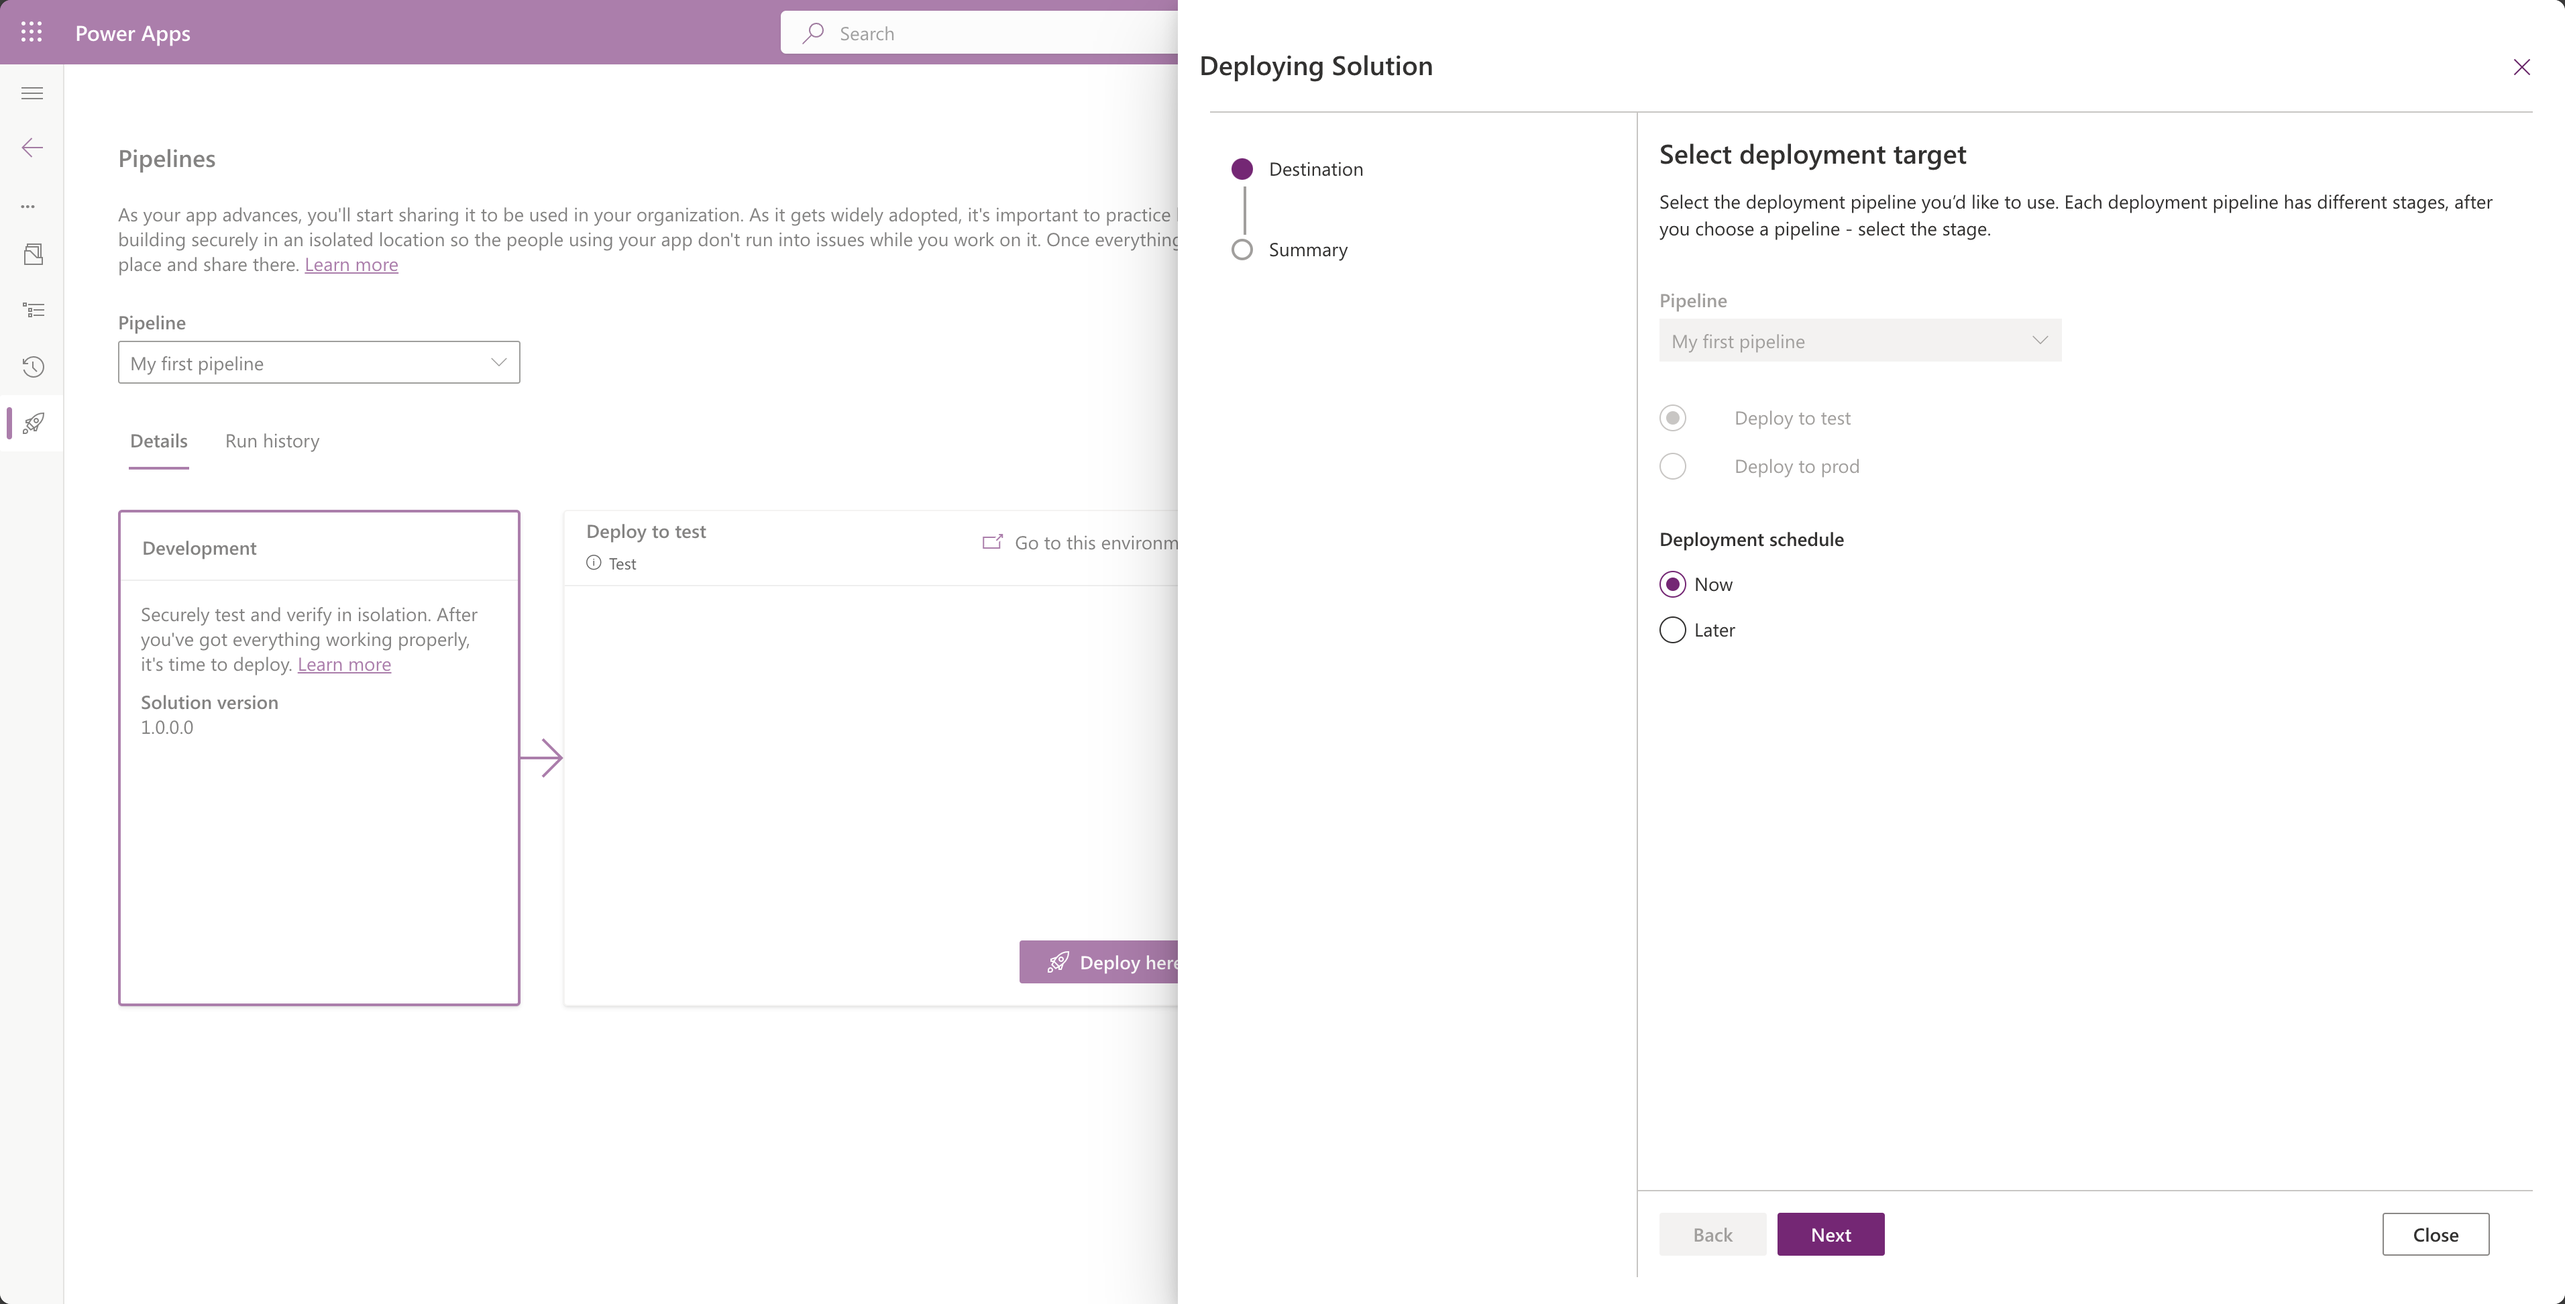
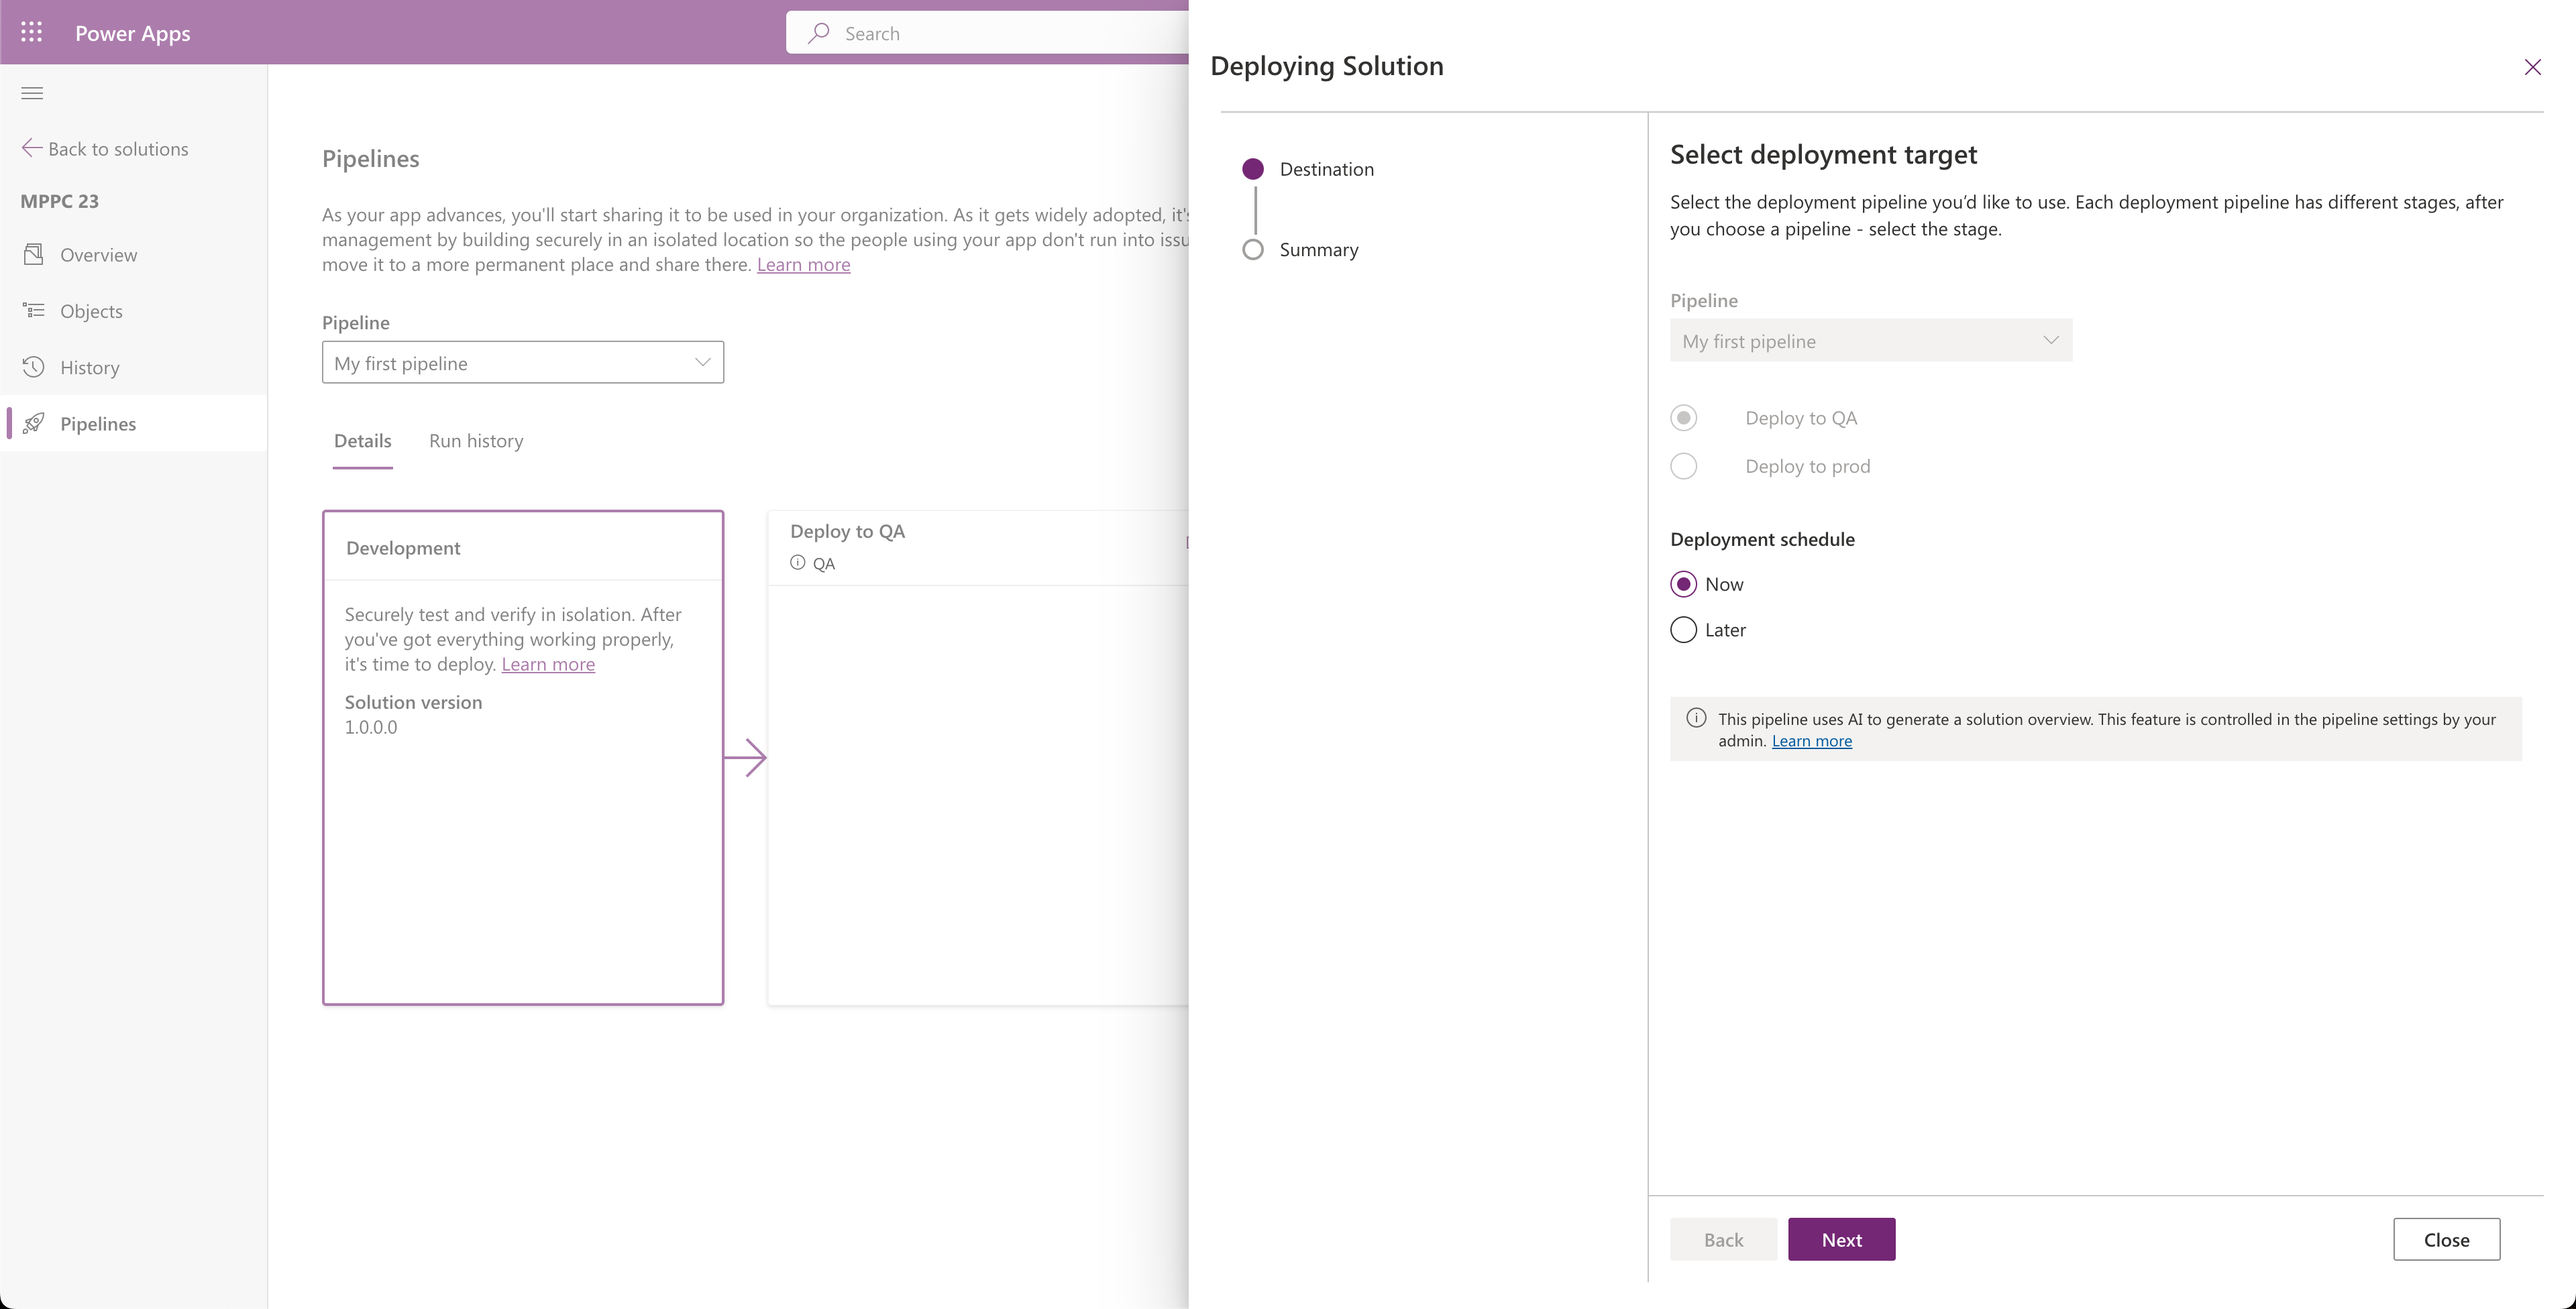
Update lab 3 task 2 with AI generated description

diff --git a/lab3/README.md b/lab3/README.md
@@ -7,13 +7,9 @@
 
 In this lab, you will go though the following tasks:
 
-- Create your first pipeline (Dev - QA - Prod)
-- Run the first deployment to the Test environment
-- Install the Creator Kit solution in QA environment
-- Install the Creator Kit solution in Prod environment
-- Retry the deployment to the QA environment
+- Create your first pipeline
+- Run the deployment to the Test environment
 - Deploy to the Prod environment
-- Use AI generated descriptions
 
 ## Task 1: Create your first pipeline
 
@@ -180,13 +176,9 @@ Make sure to select the **+ New Deployment Stage** button again to add a second 
 
 1. Select **Save and Close** again to save the deployment stage as well
 
-## Task 2: Run the first deployment to the QA environment
+## Task 2: Run the deployment to the QA environment
 
-In this task, you will deploy the solution we created in lab 2 to the QA and Prod environments. Let's start by our first deployment to QA:
-
-### First deployment to QA
-
-In this lab, you have configured a pipeline and the stages that belong to it. But how does a maker deploy a solution from the `Dev` environment to the `QA` and `Prod` environments?
+In this task, you will deploy the solution we created in lab 2 to the QA and Prod environments. Let's start by deploying to QA. In this lab, you have configured a pipeline and the stages that belong to it. But how does a maker deploy a solution from the `Dev` environment to the `QA` and `Prod` environments?
 
 1. Go to the [maker portal](https://make.powerapps.com)
 
@@ -210,158 +202,27 @@ In this lab, you have configured a pipeline and the stages that belong to it. Bu
 
     ![](./assets/run-first-pipeline-select-target.png)
 
-1. Leave it on the default (Now) and select the purple `Next` button on the bottom of the sidebar
+1. Notice the message at below the deployment schedule. This indicates that this pipeline uses AI to generate a solution overview
 
-1. This will lead you to the next screen where pipelines for Power Platform will validate if the solution needs some configuration steps and/or there are dependencies that are missing. Wait for the validation to finish
+    ![](./assets/run-first-pipeline-ai-generated-description.png)
 
-    ![](./assets/run-first-pipeline-validation-failed-01.png)
+1. Leave everything on default and select the purple **Next** button on the bottom of the sidebar
 
-1. As you can see in the screenshot above, the validation failed due to missing dependencies. Select the `Show missing dependencies` button at the top-right corner
+    This will lead you to the next section called `Summary`. Here you can find a bunch of info about the solution you are about to deploy to the QA environment. It also shows an AI suggested solution overview
 
-1. In the next sidebar that will show up, you will see which dependencies are missing. In this case, it's the `CreatorKitCore` solution:
+    ![](./assets/run-first-pipeline-summary-ai.png)
 
-    ![](./assets/run-first-pipeline-validation-failed-02.png)
+    When you're happy with that AI generated solution overview, select the **Apply** button below the AI suggested solution overview
 
-    You might remember installing the Creator Kit in lab 01. This is what we need to in the test and prod environments as well.
+    Now the AI suggested solution overview is added in the `Deployment notes` box
 
-1. Select the purple `Close` button at the bottom of the sidebar
+    ![](./assets/run-first-pipeline-ai-generated-description-approved.png)
 
-    ![](./assets/run-first-pipeline-validation-failed-03.png)
+1. Check the AI suggested solution overview to make sure it doesn't include any errors and correct where needed
 
-1. Select the `Close` button on the bottom-right side of the sidebar
+1. Select the purple **Deploy** button
 
-    ![](./assets/run-first-pipeline-validation-failed-04.png)
-
-1. In the following dialog, select the purple `Discard` button to discard changes
-
-    ![](./assets/run-first-pipeline-validation-failed-05.png)
-
-1. This will lead us back to the pipeline overview, where we can start our deployment. Now, lets go to the environment by selecting the `Go to the environment` button in the `Deploy to QA` stage
-
-    ![](./assets/run-first-pipeline-validation-failed-06.png)
-
-1. It will open a new tab which will open the environment homepage where you can go to the `Solutions` menu item to see which solutions are installed in that environment
-
-    ![](./assets/run-first-pipeline-validation-failed-07.png)
-
-1. The `Creator Kit` solution is not part of the list of solutions, so we need to install the `Creator Kit` solution
-    ![](./assets/run-first-pipeline-validation-failed-08.png)
-
-You will have to install the Creator Kit in both the test and prod environments.
-
-## Task 3: Install the Creator Kit solution in QA environment
-
-The `Creator Kit` app is now only available in the `Dev` environment, so let's add the app also to the `QA` environment.
-
-1. Go to the [Power Platform Admin Center](https://aka.ms/ppac), select `Environments` in the left menu, and select the `Test` environment by selecting the environment display name
-
-    ![](./assets/run-first-pipeline-validation-failed-09.png)
-
-1. Next, select `Resources` in the command bar at the top and select `Dynamics 365 Apps`. This will lead you to the installed apps in the `QA` environment. There might be some updates available, but you can ignore that for now
-
-    ![](./assets/run-first-pipeline-validation-failed-10.png)
-
-1. Select the `Install app` button in the command bar at the top
-
-    ![](./assets/run-first-pipeline-validation-failed-11.png)
-
-1. Select the `Creator Kit` app and select the purple `Next` button at the bottom of the sidebar
-
-    ![](./assets/run-first-pipeline-validation-failed-12.png)
-
-1. Select the `I agree to the terms of service` checkbox and select the purple `Install` button
-
-    ![](./assets/run-first-pipeline-validation-failed-13.png)
-
-1. In the next screen, you will see a message at the top that the installation of the `Creator Kit` has been started. Select `Environments` in the breadcrumb at the top
-
-    ![](./assets/run-first-pipeline-validation-failed-14.png)
-
-Next, you have to install the `Creator Kit` app in the `Prod` environment.
-
-## Task 4: Install the Creator Kit solution in Prod environment
-
-The `Creator Kit` app is now only available in the `Dev` and `QA` environments, so let's add the app also to the `Prod` environment to avoid missing dependencies there.
-
-1. Go to the [Power Platform Admin Center](https://aka.ms/ppac), select `Environments` in the left menu, and select the `Prod` environment by selecting the environment display name
-
-    ![](./assets/run-first-pipeline-validation-failed-15.png)
-
-1. Next, select `Resources` in the command bar at the top and select `Dynamics 365 Apps`. This will lead you to the installed apps in the `QA` environment. There might be some updates available, but you can ignore that for now
-
-    ![](./assets/run-first-pipeline-validation-failed-16.png)
-
-1. Select the `Install app` button in the command bar at the top
-
-    ![](./assets/run-first-pipeline-validation-failed-17.png)
-
-1. Select the `Creator Kit` app and select the purple `Next` button at the bottom of the sidebar
-
-    ![](./assets/run-first-pipeline-validation-failed-18.png)
-
-1. Select the `I agree to the terms of service` checkbox and select the purple `Install` button
-
-    ![](./assets/run-first-pipeline-validation-failed-19.png)
-
-1. In the next screen, you will see a message at the top that the installation of the `Creator Kit` has been started. Select `Environments` in the breadcrumb at the top
-
-    ![](./assets/run-first-pipeline-validation-failed-20.png)
-
-Now that you have triggered the install of the `Creator Kit` in both the `QA` and `Prod` environments, you can move on to task 06, retrying the deployment to the `QA` environment.
-
-## Task 5: Retry the deployment to the QA environment
-
-To make sure your deployment goes well, lets check if the Creator Kit solution has been properly installed in the `QA` environment.
-
-### Check if the Creator Kit app is correctly installed
-
-1. Go to the [maker portal](https://make.powerapps.com)
-
-1. Check if you are in the `QA` environment and if not, switch to that environment
-
-    ![](./assets/check-environment-test.png)
-
-1. Select `Solutions` in the left navigation and check if the `Creator Kit (Name: CreatorKitCore)` solution is installed
-
-    ![](./assets/check-install-creator-kit-test.png)
-
-1. If that's the case, you are ready for deployment. If not, you probably have to wait a little bit until the Creator Kit is installed
-
-### Deploy the solution to the QA environment
-
-For the deployment to QA, you have to switch to your `Dev` environment. Make sure to do that and verify that you are in the right environment:
-
-![](./assets/check-environment-dev.png)
-
-1. Go to Solutions via the left menu
-
-1. Select the `Mixed Reality Workshop` solution by selecting the display name
-
-    ![](./assets/run-first-pipeline-dev.png)
-
-1. Select the rocket icon on the left
-
-    ![](./assets/run-first-pipeline-solution.png)
-
-1. Select the purple `Deploy here` button.
-
-    ![](./assets/run-deploy-to-test-deploy-here.png)
-
-1. This will open a new sidebar which will give you the option to start your deployment now or plan your deployment for later. Select the purple `Next` button to go to the next screen
-
-    ![](./assets/run-first-pipeline-select-target.png)
-
-1. The next screen will be a bit different from our last try, it will now show a summary of the deployment. Fill in some deployment notes, like for instance: `First deployment of the Mixed Reality solution` and select the purple `Deploy` button
-
-    ![](./assets/run-deploy-to-test-deployment-notes.png)
-
-1. This will trigger the `Deploy to QA` stage
-
-    ![](./assets/run-deploy-to-test-in-progress.png)
-
-1. When it's done, you will see that the deployment has been finished
-
-    ![](./assets/run-deploy-to-test-finished.png)
+    ![](./assets/run-first-pipeline-summary-deploy.png)
 
 ### Test if the solution was correctly deployed
 
@@ -405,7 +266,7 @@ For the deployment to QA, you have to switch to your `Dev` environment. Make sur
 
 Now you know the app works in QA, let's deploy it to production.
 
-## Task 6: Deploy to the Prod environment
+## Task 3: Deploy to the Prod environment
 
 To make sure your deployment goes well, lets check if the Creator Kit solution has been properly installed in the `Prod` environment.
 
